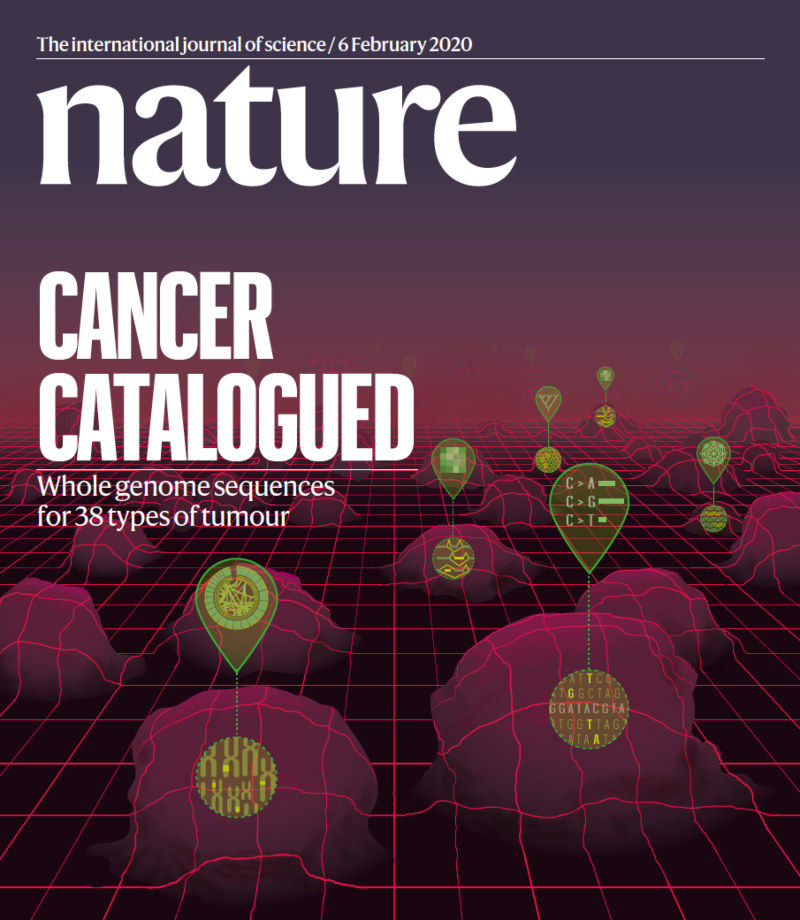
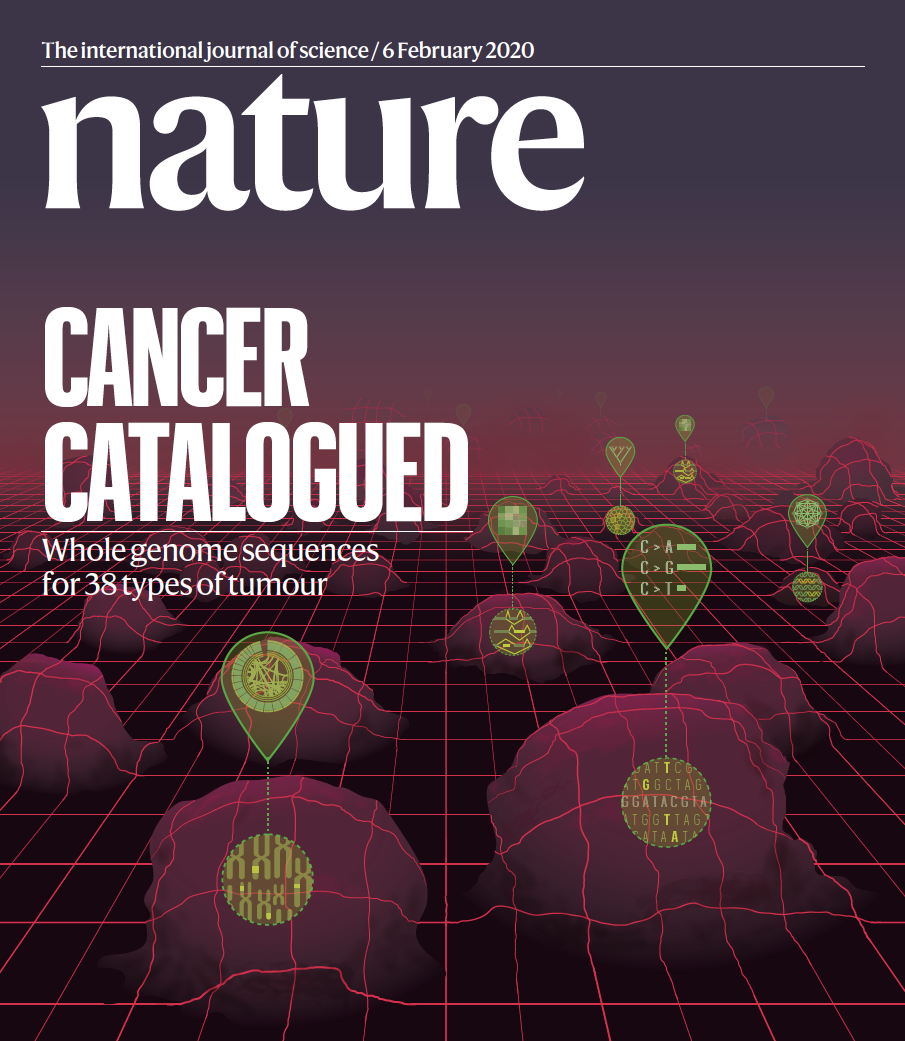
#129 - Investigate Low Res Images
* Modified assets

* Updated data for new assets

* Removed PDF icon

* Edited FileLink

Changed region(s): [[0.5625, 0.5783, 0.5938, 0.6087]]

diff --git a/components/fileLink/fileLink.module.scss b/components/fileLink/fileLink.module.scss
@@ -16,17 +16,8 @@
             color: $dark-x4-gray;
         }
 
-        .content {
-            display: flex;
-            align-items: center;
-
-            .icon {
-                margin-right: 16px;
-            }
-
-            a {
-                font-size: 15px;
-            }
+        a {
+            font-size: 15px;
         }
     }
 }
@@ -38,12 +29,6 @@
         li {
             margin: 7.5px 0px 7.5px 22.5px;
             padding-left: 4.5px;
-
-            .content {
-                .icon {
-                    margin-right: 15.5px;
-                }
-            }
         }
     }
 }
@@ -56,14 +41,8 @@
             margin: 7px 0px 7px 21px;
             padding-left: 4px;
 
-            .content {
-                .icon {
-                    margin-right: 15px;
-                }
-
-                a {
-                    font-size: 14.5px;
-                }
+            a {
+                font-size: 14.5px;
             }
         }
     }
@@ -72,15 +51,8 @@
 @include respond-to("small") {
     .container {
         li {
-            .content {
-                .icon {
-                    width: auto;
-                    height: 17px;
-                }
-
-                a {
-                    font-size: 14px;
-                }
+            a {
+                font-size: 14px;
             }
         }
     }
@@ -94,14 +66,8 @@
             margin: 6.5px 0px 6.5px 19.5px;
             padding-left: 3.5px;
 
-            .content {
-                .icon {
-                    margin-right: 14.5px;
-                }
-
-                a {
-                    font-size: 13.5px;
-                }
+            a {
+                font-size: 13.5px;
             }
         }
     }
@@ -115,15 +81,8 @@
             margin: 6px 0px 6px 18px;
             padding-left: 3px;
 
-            .content {
-                .icon {
-                    margin-right: 14px;
-                    height: 16px;
-                }
-
-                a {
-                    font-size: 13px;
-                }
+            a {
+                font-size: 13px;
             }
         }
     }

diff --git a/components/fileLink/fileLink.js b/components/fileLink/fileLink.js
@@ -1,5 +1,4 @@
 import clsx from "clsx";
-import Image from "next/image";
 import CustomLink from "../customLink/customLink";
 import utilStyles from "../../styles/utils.module.scss";
 import styles from "./fileLink.module.scss";
@@ -11,27 +10,17 @@ const FileLink = ({ links }) => {
     return (
       <ul className={clsx(styles.container, utilStyles.outerContainerWidth)}>
         {links.map((item, index) => {
-          if (!item.icon?.srcPath || !item.icon?.alt || !item.label || !item.link) {
+          if (!item.label || !item.link) {
             return null;
           } else {
             return (
               <li key={index}>
-                <div className={styles.content}>
-                  <Image
-                    src={item.icon.srcPath}
-                    alt={item.icon.alt}
-                    className={styles.icon}
-                    quality={100}
-                    width={18}
-                    height={18}
-                  />
-                  <CustomLink
-                    label={item.label}
-                    link={item.link}
-                    isLinkExternal={true}
-                    styleLabel={utilStyles.commonAnchor}
-                  />
-                </div>
+                <CustomLink
+                  label={item.label}
+                  link={item.link}
+                  isLinkExternal={true}
+                  styleLabel={utilStyles.commonAnchor}
+                />
               </li>
             );
           }

diff --git a/components/publication/publication.module.scss b/components/publication/publication.module.scss
@@ -4,6 +4,7 @@
     display: flex;
 
     .image {
+        border-radius: 5px;
         margin-right: 18px;
     }
 
@@ -49,6 +50,7 @@
 @include respond-to("small") {
     .container {
         .image {
+            border-radius: 5.25px;
             height: 105px;
         }
 
@@ -67,6 +69,7 @@
 @include respond-to("extra-small") {
     .container {
         .image {
+            border-radius: 5.5px;
             margin-right: 15px;
             height: 95px;
         }
